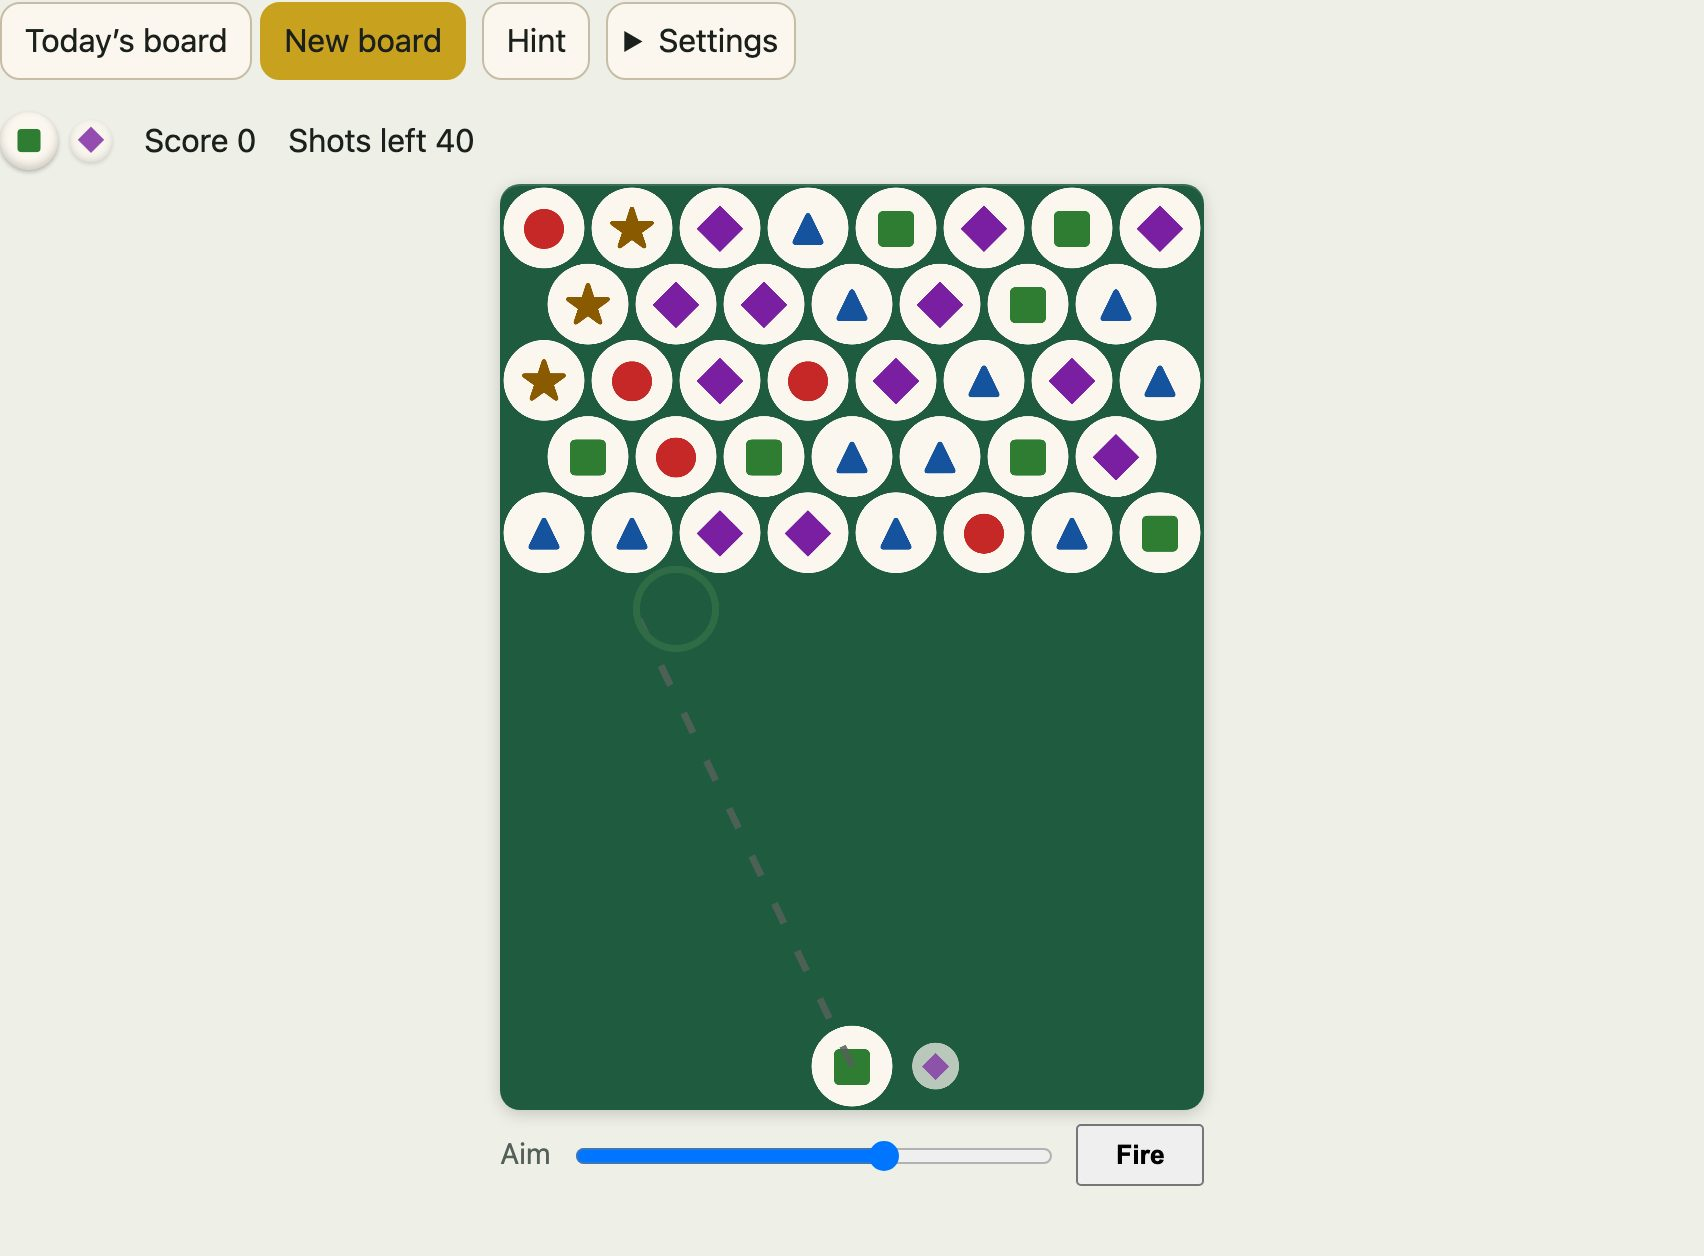
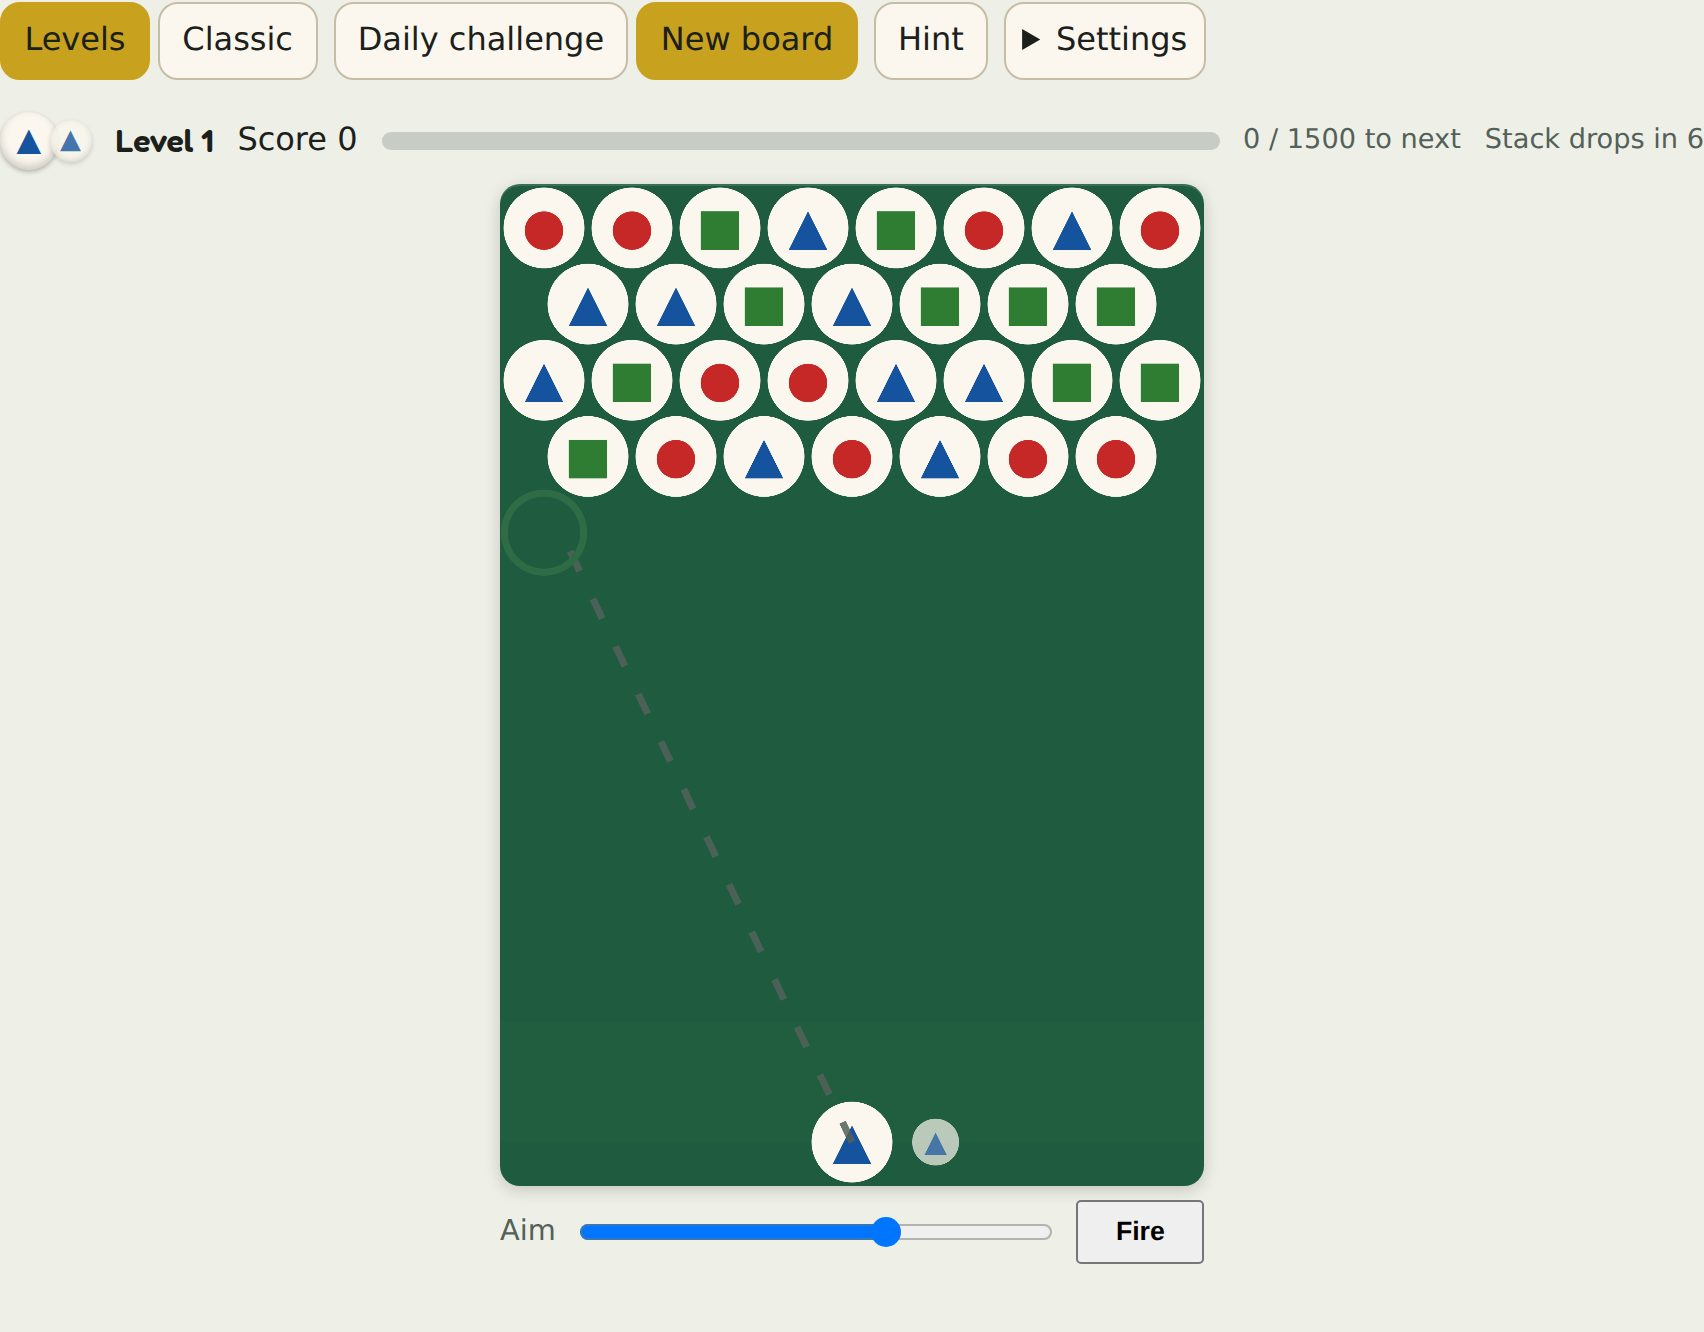
docs(bubble): how-to, guide shots, docs + gate for levels mode (V6)
- bubble-howto.ts rewritten to lead with levels (climb by scoring before the
  descending stack crosses the deadline; big drops score most; the optional timer
  is a practice clock, never a verified loss; Classic toggle noted). Regenerated
  the two bubble guide shots (levels board HUD + levels result); only the bubble
  JPEGs are staged (other games re-encode run-to-run).
- guide-shots.mjs: the bubble shots capture the levels board + a levels result
  (driven to a deadline loss); added an optional PLAYWRIGHT_EXECUTABLE_PATH
  override so a sandbox/CI Chromium build that differs from the pinned revision
  can still render shots (unset = default resolution).
- docs/BUILDING-GAMES.md §4: new principle — pressure and progression must be
  move-derived, never wall-clock; a clock may inform the player but never decide
  the verified outcome.
- README + TODO/bubble.md: levels mode described (default; Classic via toggle /
  ?variant=classic); the "ceiling advance" follow-up marked delivered. Both plans
  cross-linked; the levels plan's execution log records V1–V6.
- styles.css: levels HUD styling (variant toggle, level, score→target progress
  bar, pressure readout, timer, stars) — semantic tokens only.

Gate: cargo (bubble-core 42 + bubble-wasm) green, fmt + clippy clean; tsc +
eslint clean; vitest 157; bubble e2e 11 classic + 8 levels (chromium). Levels is
the default /bubble/; Classic preserved with its winnable pack + v3 shares.

diff --git a/src/games/bubble/bubble-howto.ts b/src/games/bubble/bubble-howto.ts
@@ -1,11 +1,12 @@
 //! The bubble shooter's "How to play" guide (pure data — see src/how-to.ts).
-//! Leads with the objective and the aim-and-shoot interaction.
+//! Leads with the levels game: climb the levels by scoring before the descending
+//! stack reaches the bottom.
 
 import type { Guide } from "../../how-to.js";
 
 export const BUBBLE_GUIDE: Guide = {
   title: "How to play the bubble shooter",
-  lede: "Clear every bubble off the board before your shots run out. The launcher at the bottom holds a colour to fire and shows the next one on deck; aim an angle and fire — the bubble flies up, bounces off the walls, and sticks where it first touches. Three or more of the same colour touching pop, and anything left hanging falls away. Every cleared board is a record anyone can re-verify.",
+  lede: "Climb the levels. The launcher at the bottom holds a colour to fire and shows the next one on deck; aim an angle and fire — the bubble flies up, bounces off the walls, and sticks where it first touches. Three or more of the same colour touching pop, and anything left hanging falls away and scores double. Earn each level's points target to move up — but every few shots a new row is pushed in at the top, marching the stack toward the bottom line. Reach as high a level as you can before it crosses. Every result is a record anyone can re-verify.",
   entries: [
     {
       testid: "howto-goal",
@@ -14,13 +15,13 @@ export const BUBBLE_GUIDE: Guide = {
       blocks: [
         {
           kind: "prose",
-          text: "Empty the board. You have a fixed number of shots; clear every bubble before they run out and you win. Today's board is always one that can be cleared, so it is always fair.",
+          text: "Score points and climb. Each level needs a target number of points; reach it and you advance to a harder level — more colours, a higher target, and new rows arriving faster. You lose when the stack of bubbles is pushed down far enough to cross the line at the bottom, so keep it short. There is no finish line: the aim is to reach the highest level you can.",
         },
         {
           kind: "shot",
           name: "bubble-board",
-          alt: "A staggered honeycomb of coloured, shaped bubbles on a green felt table, with a launcher at the bottom holding the loaded colour and a smaller on-deck colour beside it, a dotted aim line and a landing ring showing where the shot will stick, and a score / shots-left bar.",
-          caption: "The board, the launcher showing the loaded colour and the next one on deck, the dotted aim guide showing where the shot will land, and the bar: your score and shots left.",
+          alt: "A staggered honeycomb of coloured, shaped bubbles on a green felt table, with a launcher at the bottom holding the loaded colour and a smaller on-deck colour beside it, a dotted aim line and landing ring, and a HUD showing the level, the score, a progress bar toward the next level, and how many shots until the stack drops.",
+          caption: "The board and launcher, the dotted aim guide, and the levels HUD: your level, score, progress to the next level, and shots until the next row drops in.",
         },
       ],
     },
@@ -31,7 +32,7 @@ export const BUBBLE_GUIDE: Guide = {
       blocks: [
         {
           kind: "prose",
-          text: "Each bubble has both a colour and a shape (circle, triangle, square, diamond, star, plus), so they stay distinct however you see colour. The launcher shows two colours — the one loaded now and the next one on deck — so you can plan two shots ahead. The on-deck colour is picked a shot early, so now and then it lands with nothing to match yet; plan around it.",
+          text: "Each bubble has both a colour and a shape (circle, triangle, square, diamond, star, plus), so they stay distinct however you see colour. The launcher shows two colours — the one loaded now and the next one on deck — so you can plan two shots ahead. Higher levels add more colours, so matches get harder to line up.",
         },
       ],
     },
@@ -65,7 +66,26 @@ export const BUBBLE_GUIDE: Guide = {
       blocks: [
         {
           kind: "prose",
-          text: "When your shot makes a group of three or more of the same colour touching, the whole group pops in a burst. Better still: any bubbles left hanging with nothing connecting them to the top of the board come loose and fall away — so popping the right group can clear a whole cluster at once. Both popped and dropped bubbles score, and drops are worth double.",
+          text: "When your shot makes a group of three or more of the same colour touching, the whole group pops in a burst. Better still: any bubbles left hanging with nothing connecting them to the top of the board come loose and fall away — so popping the right group can clear a whole cluster at once. Popped bubbles score, but a big drop scores far more (the more you cut loose in one shot, the bigger the reward) — so the way to hit a level's target fast is to set up large drops, not just pop trios.",
+        },
+      ],
+    },
+    {
+      testid: "howto-levels",
+      title: "Levels, the descending stack, and the timer",
+      toc: "Levels & pressure",
+      blocks: [
+        {
+          kind: "prose",
+          text: "Every few shots a fresh row of bubbles is pushed in at the top and the whole stack slides down one row — the classic bubble-shooter pressure. As you climb, rows arrive more often and the point target rises, so each level is tighter than the last. The HUD's \"stack drops in\" counter tells you how many shots until the next row; clear space before it lands.",
+        },
+        {
+          kind: "prose",
+          text: "Prefer racing a clock? Turn on \"Show level timer\" in Settings for a per-level countdown. It's a practice aid only — it is never part of your verified result and running it down never ends the run; only the stack crossing the bottom line does.",
+        },
+        {
+          kind: "prose",
+          text: "Want the original instead? Switch to Classic with the mode toggle for the clear-the-board game: empty a fixed daily board within a shot budget, with its own verifiable result.",
         },
       ],
     },
@@ -76,17 +96,17 @@ export const BUBBLE_GUIDE: Guide = {
       blocks: [
         {
           kind: "prose",
-          text: "Hints are on by default and set your aim to a strong shot (the one that pops the most right now); using one counts as assistance, which is noted honestly on your result. Turn hints off and the button becomes \"I'm done\", which ends the round and reports the result honestly.",
+          text: "Hints are on by default and set your aim to a strong shot (the one that removes the most bubbles right now); using one counts as assistance, which is noted honestly on your result. Turn hints off and the button becomes \"I'm done\", which ends the run and reports the result honestly.",
         },
         {
           kind: "prose",
-          text: "When the board clears (or your shots run out) you get a result you can re-verify: it replays every shot against the game's core and re-derives the outcome, so nothing is taken on trust. Share it and the link checks itself before it shows.",
+          text: "When the stack finally crosses the line you get a result you can re-verify: the level you reached and your score, replayed shot-by-shot against the game's core so nothing is taken on trust. Share it and the link checks itself before it shows.",
         },
         {
           kind: "shot",
           name: "bubble-win",
-          alt: "A result panel headed \"Board cleared\" with a green Verified check and a record listing the score, shots used, seed, and final hash.",
-          caption: "The verifiable result: cleared, re-checked by replay, with the record and a self-verifying share link.",
+          alt: "A result panel headed \"Reached level N\" with a star grade, a green Verified check, and a record listing the score, shots fired, seed, and final hash.",
+          caption: "The verifiable result: the level you reached and your score, re-checked by replay, with a self-verifying share link.",
         },
       ],
     },

diff --git a/styles.css b/styles.css
@@ -984,7 +984,7 @@ body.fullscreen .play-area {
 .bub-progress-fill {
   display: block;
   height: 100%;
-  background: var(--active, #10b981);
+  background: var(--active);
   border-radius: 999px;
   transition: width 0.25s ease;
 }
@@ -996,12 +996,12 @@ body.fullscreen .play-area {
   font-weight: 600;
   padding: 0.05rem 0.4rem;
   border-radius: 0.4rem;
-  background: color-mix(in srgb, var(--focus, #3b82f6) 18%, transparent);
+  background: color-mix(in srgb, var(--focus) 18%, transparent);
 }
 .bub-stars {
   font-size: 1.5rem;
   letter-spacing: 0.15rem;
-  color: var(--gem-4, #eab308);
+  color: var(--gem-4);
   margin: 0.1rem 0 0.3rem;
 }
 

diff --git a/TODO/bubble.md b/TODO/bubble.md
@@ -1,10 +1,31 @@
 # TODO — bubble shooter
 
-Status: **playable** at `/bubble/` — a real **aim-and-shoot** Bubble Shooter
-(v2: aim an angle → fixed-point ray-cast/bounce landing → pop/drop, over a
-winnable daily pack). Plan: `plans/2026-07-31-bubble-shooter-rebuild.md`
-(rebuild; v1 `plans/2026-07-30-bubble-shooter.md` superseded). Standards:
+Status: **playable** at `/bubble/` — a real **aim-and-shoot** Bubble Shooter.
+Default mode is **Levels** (escalating, point-gated survival with a descending
+top-row-insert stack + optional presentational timer); **Classic** (the toggle /
+`?variant=classic`) is the original clear-the-board game over the winnable daily
+pack. Plans: `plans/2026-07-31-bubble-shooter-rebuild.md` (aim rebuild),
+`plans/2026-08-01-bubble-shooter-levels-difficulty.md` (levels). v1
+`plans/2026-07-30-bubble-shooter.md` superseded. Standards:
 `docs/BUILDING-GAMES.md`.
+
+## Shipped (levels mode — tiers, ramp, descending rows, optional timer)
+- [x] `board.rs` `parity_offset` + `insert_top_row` — a single-row top insert is a
+      shift-down + parity flip (offset 0 default → clear-board unchanged); even
+      height keeps the flat cell count invariant (V1).
+- [x] `levels.rs` `LevelGame` + `LevelConfig` — arcade scoring (10/pop,
+      `20·2^(n-1)` capped drop), per-level target/colours/cadence ramp, shot-driven
+      seeded inserts, deadline loss; `BubbleLevels` outcome (`bubble-levels` v1,
+      score + star grade), reachability sanity (V2/V3).
+- [x] `bubble-wasm` levels session + exports (`new_level_game`, `level_board_json`,
+      `level_shoot`, `level_trajectory_json`, `level_last_shot_json`,
+      `level_current_hash`, `level_outcome_json`, hint/assist) + TS wrapper (V4).
+- [x] Levels UI: mode toggle, level HUD (level, score→target progress, "stack drops
+      in"), parity-aware render, insert slide + deadline band, **optional timer**
+      (presentational — never a verified loss), levels result (level + score +
+      stars) + `?r=` re-verify; e2e (V5).
+- [x] How-to + guide-shots rewritten for levels + descending rows + timer;
+      BUILDING-GAMES §4 "pressure is move-derived, never wall-clock" (V6).
 
 ## Shipped (v2 — aim-and-shoot rebuild)
 - [x] `bubble-core` `aim.rs`: quantized `Angle` + `resolve_shot` — fixed-point
@@ -34,8 +55,9 @@ winnable daily pack). Plan: `plans/2026-07-31-bubble-shooter-rebuild.md`
 - [ ] **Bank-shot polish.** The wall-bounce preview works; a stronger multi-bounce
       hint / trick-shot affordances could follow (still cosmetic — the angle is
       the move).
-- [ ] **Ceiling advance variant.** Rows push down every N shots (arcade endless
-      mode) — a separate objective, its own winnability story.
+- [x] **Ceiling advance variant.** Delivered as **levels mode** — rows push in at
+      the top every N shots, the stack descends to a bottom deadline (see the
+      levels section above).
 - [ ] **Specials.** Bomb bubble (clears a radius), rainbow bubble (matches any
       colour) — owner balance decisions; new golden vectors.
 - [ ] **Score balance / stars.** v1 surfaces raw score, no stars. If a graded

diff --git a/plans/2026-08-01-bubble-shooter-levels-difficulty.md b/plans/2026-08-01-bubble-shooter-levels-difficulty.md
@@ -16,10 +16,35 @@ decided by a wall clock.
 
 ## Execution log
 
-- **V1 (in progress):** parity-offset `Board` + `insert_top_row` (single-row top
-  insert = shift-down + parity flip; `parity_offset` defaults to 0 so all prior
-  behaviour/tests are unchanged), `state_hash` folds the offset, `aim.rs` short-
-  row indent keys on `(r + parity_offset)`.
+- **V1 (done, commit `615ba90`):** parity-offset `Board` + `insert_top_row`
+  (single-row top insert = shift-down + parity flip; `parity_offset` defaults to 0
+  so all prior behaviour/tests unchanged), `aim.rs` short-row indent keys on
+  `(r + parity_offset)`. **Deviation:** `state_hash` is *not* changed — parity is a
+  pure function of the insert count (from the move list), so replay reconstructs
+  the identical board + hashes identical cells; folding it would needlessly change
+  clear-board's pinned hashes/version. 5 new board tests; bubble-core/wasm/solver
+  green.
+- **V2 (done, commit `5b58298`):** `levels_mode` + `LevelGame`/`LevelConfig` —
+  arcade scoring (`10·pop + 20·2^(n-1)` capped), per-level target/colours/cadence
+  ramp, shot-driven seeded inserts, deadline loss; `BubbleLevels` outcome
+  (`bubble-levels` v1, score + star grade). 8 levels tests.
+- **V3 (done, commit in V3 batch):** greedy reachability sanity — good play reaches
+  level 2 (earns `target_score(1)`) before the deadline across seeds, guarding the
+  tuned curve. (Lighter than a clear-board pack — endless survival has no terminal
+  win.)
+- **V4 (done, commit `54bb087`):** levels wasm session + exports
+  (`new_level_game`, `level_board_json`, `level_shoot`, `level_trajectory_json`,
+  `level_last_shot_json`, `level_current_hash`, `level_outcome_json`, hint/assist)
+  + typed wrapper + `cellCenterOff`. Compiles for wasm32; C-ABI test extended.
+- **V5 (done, commit `d8995f0`):** leveled UI — mode toggle (Levels default /
+  Classic), level HUD (level, score→target bar, "stack drops in"), parity-aware
+  render, insert slide + deadline band, **optional presentational timer**, levels
+  result (level + score + stars) + `?r=` re-verify (`verifyLevelRecord`).
+  `tests/bubble-levels.spec.ts` (8) + classic `bubble.spec.ts` repointed at
+  `?variant=classic`. Chromium e2e green (11 classic + 8 levels).
+- **V6 (done):** how-to + guide-shots rewritten for levels/descending-rows/timer;
+  BUILDING-GAMES §4 "pressure is move-derived, never wall-clock"; README + TODO +
+  rebuild-plan pointer. Full gate below.
 
 ## Problem Statement
 

diff --git a/docs/BUILDING-GAMES.md b/docs/BUILDING-GAMES.md
@@ -157,6 +157,17 @@ Tier-1. Everything in §§2–8 is Tier-1 unless noted.
   becomes a keyboard-operable control (an angle slider + Fire, ←/→ + Space)
   rather than tap-a-cell. Reference: `crates/bubble-core/src/aim.rs` +
   `src/games/bubble/`.
+- **Pressure and progression must be move-derived, never wall-clock.** Difficulty
+  ramps — descending stacks, level tiers, spawn cadences — have to be pure
+  functions of the seed and the recorded move list, so replay reproduces every
+  transition and the outcome stays verifiable. The bubble shooter's levels mode
+  pushes a new row in on a **shot count** (not a timer) and fills it from the
+  seeded RNG, so `(seed, angles)` replays the whole escalation. A **clock may
+  inform the player** (an optional countdown for felt pressure) but must **never
+  decide the verified outcome** — real elapsed time can't be reproduced by
+  replay, and a client-asserted time is forgeable, so a time-out loss can't be a
+  verifiable result (§9 "no faked verifiable outcome"). Reference:
+  `crates/bubble-core/src/levels.rs`.
 
 ### Centre the play surface — the default layout
 

diff --git a/plans/2026-07-31-bubble-shooter-rebuild.md b/plans/2026-07-31-bubble-shooter-rebuild.md
@@ -6,6 +6,12 @@ is a real Bubble Shooter (aim → shoot → fly → bounce → stick → pop) wi
 shelf's verifiable outcome preserved via a quantized-angle + fixed-point core.
 Not pushed/PR'd (awaiting owner).
 
+**Followed by:** `plans/2026-08-01-bubble-shooter-levels-difficulty.md` adds the
+**levels mode** on top of this rebuild — point-gated level tiers, a descending
+top-row-insert stack (a `parity_offset` on the board), an optional presentational
+timer, and the `bubble-levels` verifiable outcome. Levels is now the default
+`/bubble/`; this clear-board game becomes the "Classic" toggle.
+
 ## Execution log
 
 - **V0+V1 (commit `0a21590`):** fixed-point aim → landing resolver (`aim.rs`:
